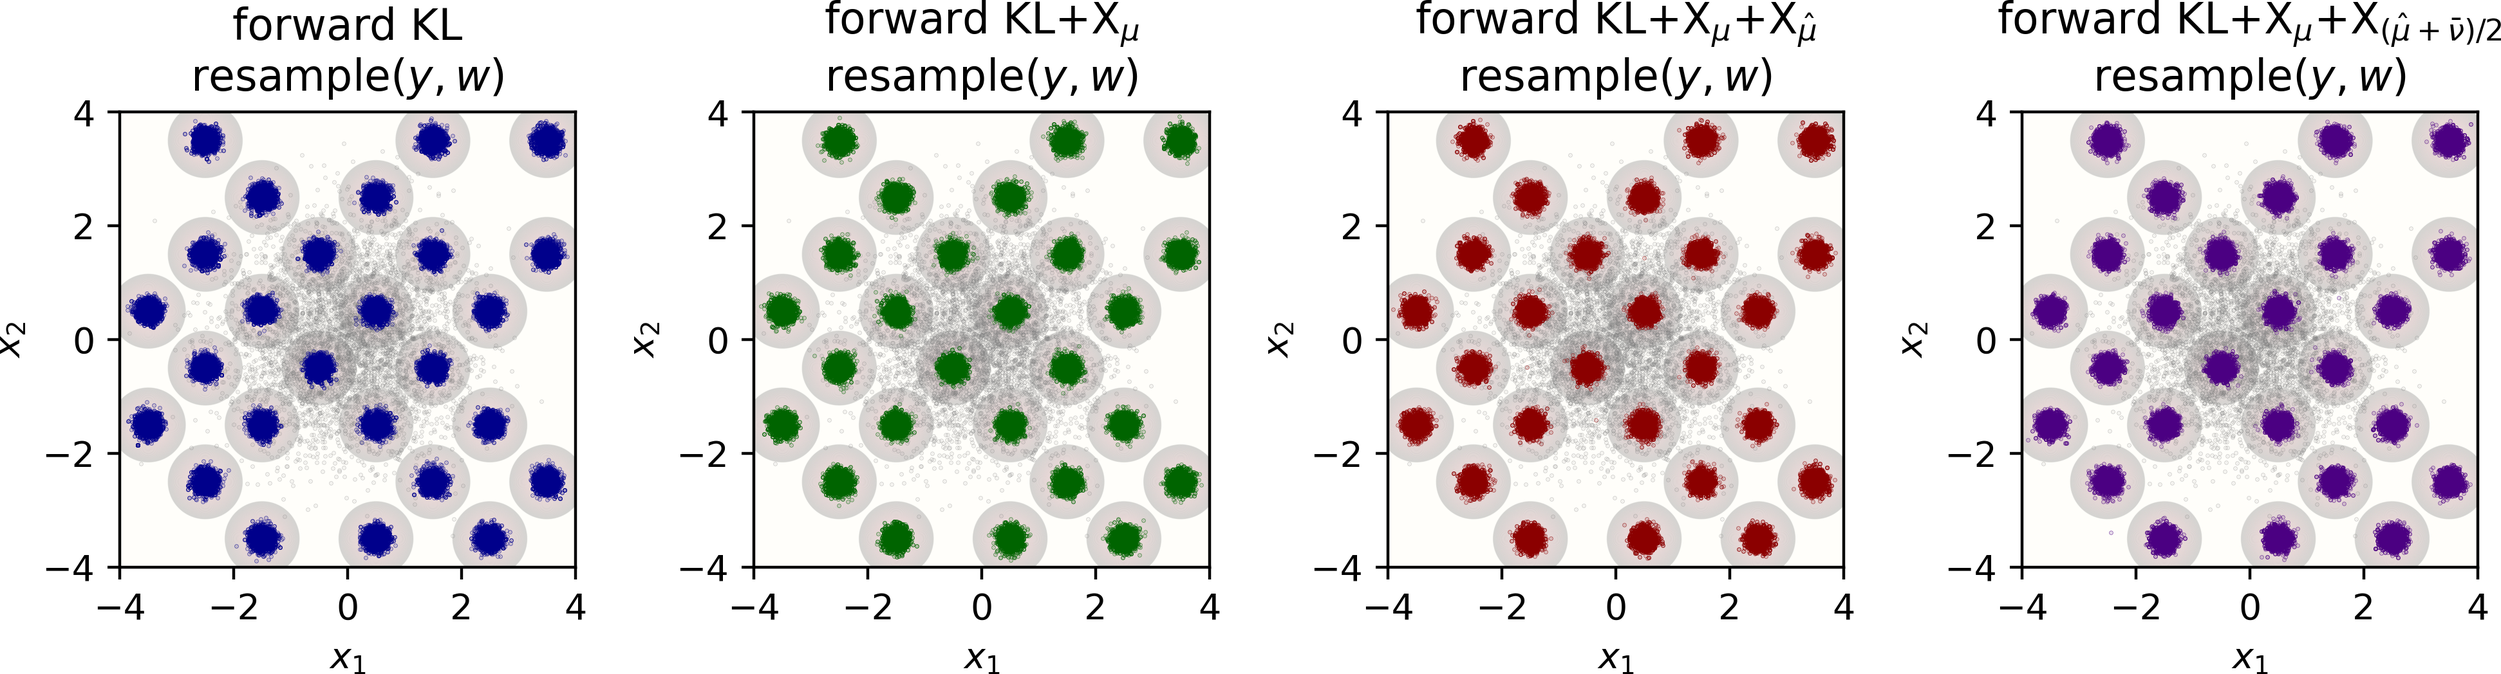
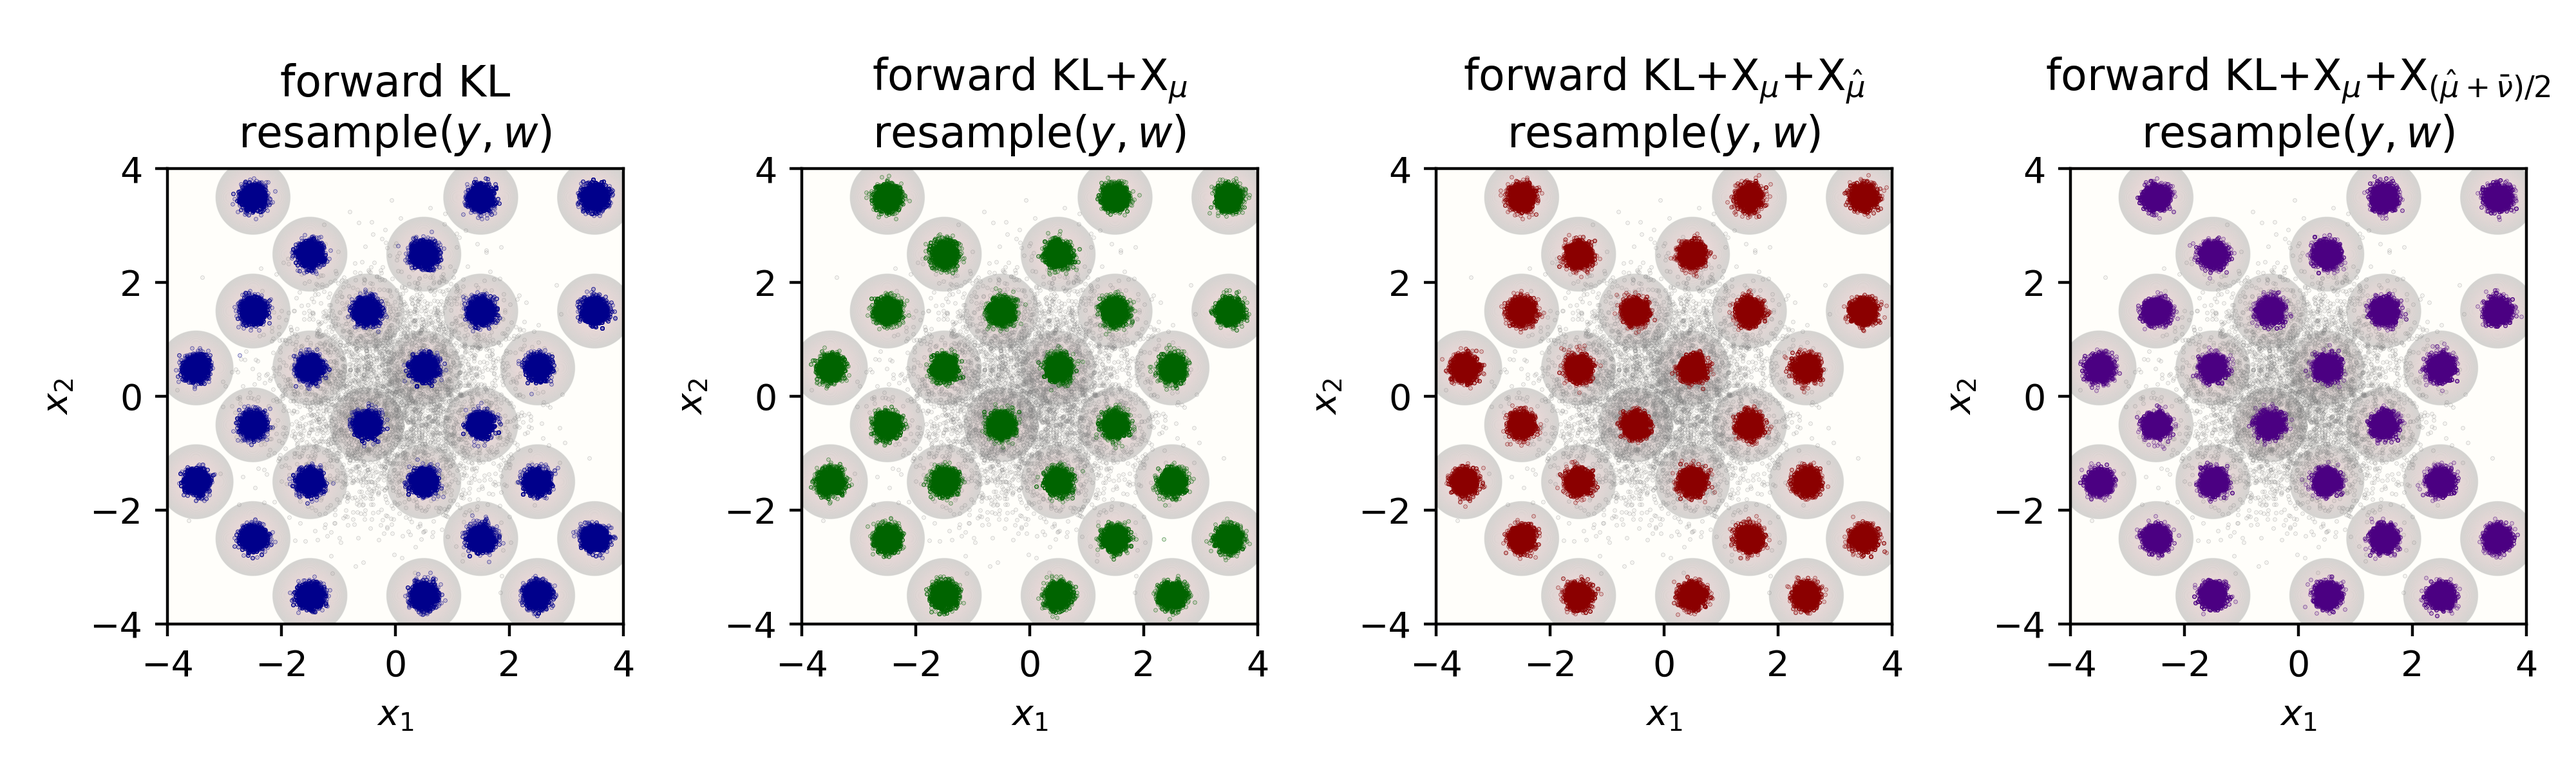
update AN and CH experiments

diff --git a/2D_Chessboard/parameters.py b/2D_Chessboard/parameters.py
@@ -11,6 +11,6 @@ HIDDEN_FEATURES = (128, 128)         # widths of the hidden layers in each coupl
 # training parameters
 N_TRAIN: int = 80000   # size of the source-sample pool drawn once and reused across steps
 N_VALID: int = 80000   # size of the fresh source batch used for final ESS / coverage evaluation
-BATCH:   int = 4000     # number of source samples per training step
+BATCH:   int = 1000     # number of source samples per training step
 STEPS:   int = 1000    # number of Adam optimization steps
-LR:      float = 1e-3  # Adam learning rate
+LR:      float = 5e-3  # Adam learning rate
